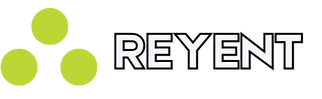
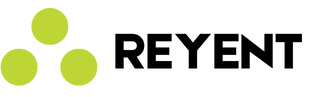
update navHeader

diff --git a/src/components/Header.vue b/src/components/Header.vue
@@ -22,10 +22,10 @@
           </ul>
         </div>
       </div>
-      <div class="navHeader">
+      <div class="navHeader bgHeader">
         <div class="row">
           <ul class="listUl">
-            <li class="listUl"><img src="../assets/Reyen1.png" alt="reyent" class="imgLogo"></li>
+            <li class="listUl"><img src="../assets/reyent.png" alt="reyent" class="imgLogo"></li>
           </ul>
         </div>
         <div class="row" >
@@ -97,7 +97,9 @@ body{
   letter-spacing: 2px;
 }
 
-
+.bgHeader{
+  background-color: #F8FAEA;
+}
 .navHeader{
   display: flex;
   flex-direction: row;
@@ -141,16 +143,16 @@ body{
   height: 15px;
 }
 a:hover{
-  border-bottom: 4px #BED754 solid;
+  border-bottom: 4px #BED635 solid;
   transition: 5.ms;
-  color: #F3F8FF;
+  color: #191919;
   -ms-text-kashida-space: inherit;
   
 }
 
 a {
   text-decoration: none;
-  color: #BED754;
+  color: #191919;
   font-weight: bold;
   text-transform: uppercase;
 }
@@ -169,8 +171,8 @@ a {
   align-items: center;
 }
 .imgLogo{
-  width: 20em;
-  height: 10em;
+  width: 10.625em;
+  height: 3.375em;
 }
 
 /* MASTERHEAD INSIDE HEADER */
@@ -315,7 +317,7 @@ a {
     background-size:cover;
   }
   a{
-    color: #F3F8FF;
+    color: #191919;
   }
   #navLinks {
     display: flex;
@@ -331,6 +333,7 @@ a {
     font-weight: bold;
     text-decoration: none;
   }
+  
 
   /* from here the hamburguer menu */
   
@@ -360,6 +363,10 @@ a {
     flex-direction: column;
     justify-content: center;
     
+  }
+  .titleEffect{
+    display: flex;
+    align-items: center;
   }
 }
   

diff --git a/src/components/Footer.vue b/src/components/Footer.vue
@@ -3,7 +3,7 @@
     <div class="footerBox">
 
       <div class="footerCard">
-        <img src="../assets/R.png" alt="reyent" class="imgFooter">
+        <img src="../assets/reyent.png" alt="reyent" class="imgFooter">
         <p class="txtSmall">
           Es un servicio de alquiler de automóviles a nivel nacional que ofrece automóviles y vehículos de cualquier tamaño y fabricación a un precio accesible y razonable.</p>
       </div>
@@ -58,8 +58,8 @@ export default {
   padding: 10px;
 }
 .imgFooter{
-  width: 150px;
-  height: 150px;
+  width: 10em;
+  height: 3.647em;
 }
 .txtSmall{
   font-size: small;
